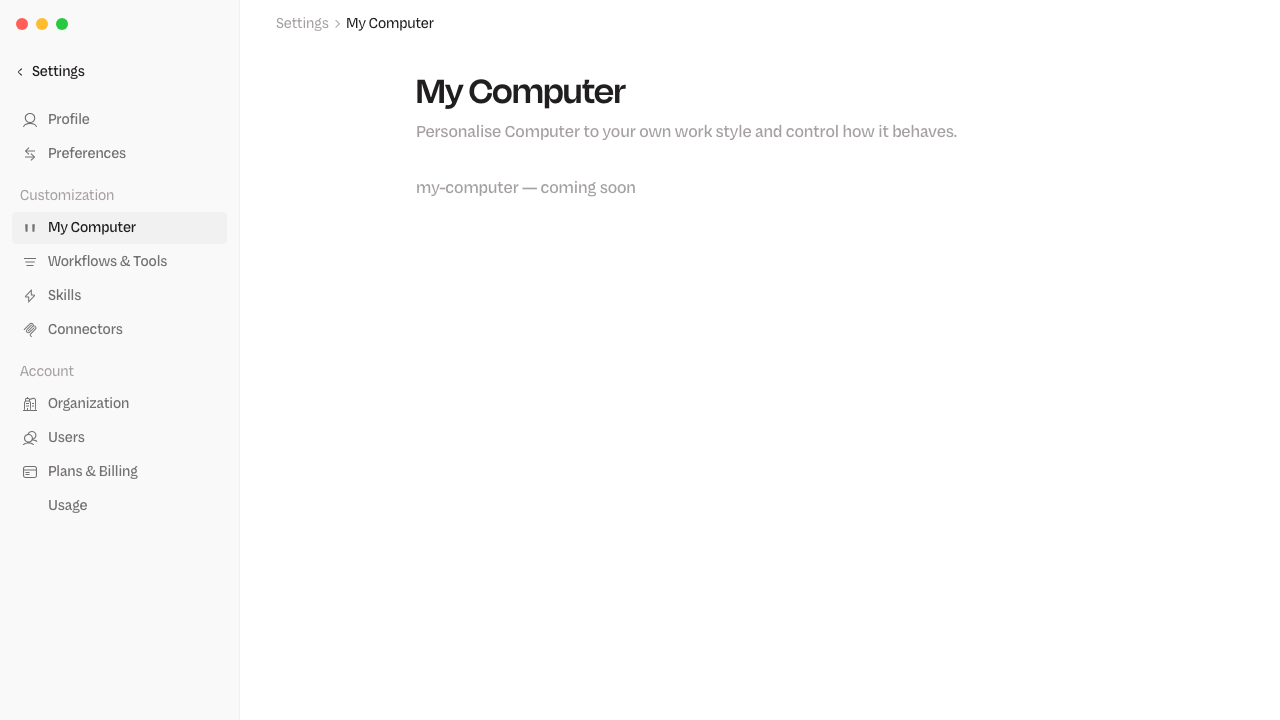
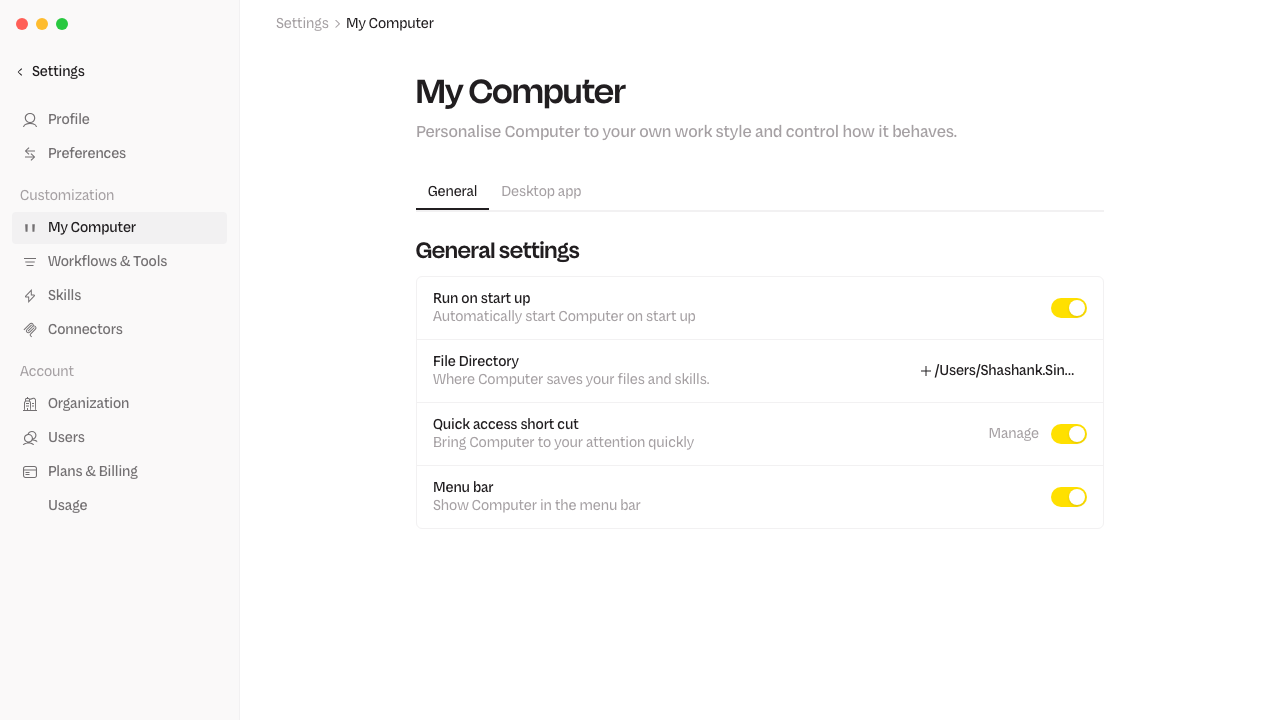
feat(studio/templates): Computer: Settings wave-1 pages (My Computer, Skills, Connectors, Users)

diff --git a/studio/prototype-kit/template-seeds/computer-settings/pages/Users.tsx b/studio/prototype-kit/template-seeds/computer-settings/pages/Users.tsx
@@ -1,0 +1,47 @@
+import * as React from "react";
+import { Button, Avatar, Tag, IconButton, ThreeDotsHorizontal, Tabs } from "arcade/components";
+
+const users = [
+  { name: "Michael Machado", email: "[email redacted]", role: "Admin" },
+  { name: "Anmol Agarwal", email: "[email redacted]", role: "Member" },
+  { name: "Tim Diacon", email: "[email redacted]", role: "Member" },
+  { name: "Shubham Gandhi", email: "[email redacted]", role: "Member" },
+  { name: "Priya Nair", email: "[email redacted]", role: "Member" },
+  { name: "Diego Alvarez", email: "[email redacted]", role: "Member" },
+];
+
+export default function Users() {
+  return (
+    <div className="flex flex-col gap-5">
+      <div className="flex items-center justify-between">
+        <Tabs.Root defaultValue="users">
+          <Tabs.List>
+            <Tabs.Trigger value="users">Users 234</Tabs.Trigger>
+            <Tabs.Trigger value="invitations">Invitations 4</Tabs.Trigger>
+          </Tabs.List>
+        </Tabs.Root>
+        <Button variant="primary" size="sm">Invite users</Button>
+      </div>
+      <div className="flex flex-col">
+        <div className="flex items-center justify-between px-2 pb-2 text-body-small" style={{ color: "var(--fg-neutral-subtle)" }}>
+          <span>Name</span><span>Role</span>
+        </div>
+        {users.map((u) => (
+          <div key={u.email} className="flex items-center justify-between border-t py-3" style={{ borderColor: "var(--stroke-neutral-subtle)" }}>
+            <span className="flex items-center gap-3">
+              <Avatar name={u.name} size="sm" />
+              <span className="flex flex-col">
+                <span className="text-system-medium" style={{ color: "var(--fg-neutral-prominent)" }}>{u.name}</span>
+                <span className="text-body-small" style={{ color: "var(--fg-neutral-subtle)" }}>{u.email}</span>
+              </span>
+            </span>
+            <span className="flex items-center gap-3">
+              <span className="text-body-small" style={{ color: "var(--fg-neutral-medium)" }}>{u.role}</span>
+              <IconButton variant="tertiary" size="sm" aria-label="More"><ThreeDotsHorizontal size={16} /></IconButton>
+            </span>
+          </div>
+        ))}
+      </div>
+    </div>
+  );
+}

diff --git a/studio/prototype-kit/template-seeds/computer-settings/pages/Skills.tsx b/studio/prototype-kit/template-seeds/computer-settings/pages/Skills.tsx
@@ -1,0 +1,41 @@
+import * as React from "react";
+import { SkillCard } from "arcade-prototypes";
+import { Tabs, Tag, Link, LightingBolt, HumanSilhouette, ChevronRightSmall } from "arcade/components";
+
+const skills = [
+  { title: "Prospect Research", description: "Pulls a company brief before any outreach so you walk in knowing more than they expect." },
+  { title: "Cold Email Writer", description: "Turns a name and a URL into a sharp, personalised first message worth replying to." },
+  { title: "Meeting Recap", description: "Summarises a call into decisions, owners, and next steps the moment it ends." },
+];
+
+export default function Skills() {
+  return (
+    <div className="flex flex-col gap-6">
+      <div style={{ borderBottom: "1px solid var(--stroke-neutral-subtle)" }}>
+        <Tabs.Root defaultValue="discover">
+          <Tabs.List>
+            <Tabs.Trigger value="discover">Discover</Tabs.Trigger>
+            <Tabs.Trigger value="mine">My skills</Tabs.Trigger>
+          </Tabs.List>
+        </Tabs.Root>
+      </div>
+      <div className="flex items-center gap-4 rounded-square-x2 border px-5 py-4"
+        style={{ borderColor: "var(--stroke-neutral-subtle)", background: "var(--bg-neutral-soft)" }}>
+        <HumanSilhouette size={20} color="var(--fg-neutral-subtle)" />
+        <span>Not sure what capabilities are? <Link mode="inline" href="#">Find out more</Link></span>
+        <ChevronRightSmall size={16} color="var(--fg-neutral-subtle)" />
+      </div>
+      <div className="grid grid-cols-1 gap-4 sm:grid-cols-2 lg:grid-cols-3">
+        {skills.map((s) => (
+          <SkillCard
+            key={s.title}
+            icon={<LightingBolt size={20} color="#2563eb" />}
+            title={s.title}
+            description={s.description}
+            status={<Tag intent="neutral" appearance="tinted">DevRev</Tag>}
+          />
+        ))}
+      </div>
+    </div>
+  );
+}

diff --git a/studio/prototype-kit/template-seeds/computer-settings/pages/Connectors.tsx b/studio/prototype-kit/template-seeds/computer-settings/pages/Connectors.tsx
@@ -1,0 +1,36 @@
+import * as React from "react";
+import { Button, Tag } from "arcade/components";
+import { BrandTile } from "../brandLogos";
+
+const connectors: Array<{ name: string; connected?: boolean }> = [
+  { name: "Gmail", connected: true }, { name: "Outlook Email", connected: true },
+  { name: "Salesforce" }, { name: "HubSpot" },
+  { name: "Google Calendar" }, { name: "Outlook Calendar" },
+  { name: "Gong" }, { name: "Zoom", connected: true },
+  { name: "Google Drive", connected: true }, { name: "Confluence Cloud" },
+  { name: "Notion", connected: true }, { name: "OneDrive", connected: true },
+  { name: "Slack", connected: true }, { name: "Microsoft Teams", connected: true },
+  { name: "SharePoint", connected: true }, { name: "Jira" },
+];
+
+export default function Connectors() {
+  return (
+    <div className="flex flex-col gap-4">
+      <div className="flex justify-end">
+        <Button variant="primary" size="sm">Add custom connector</Button>
+      </div>
+      <div className="grid grid-cols-1 gap-3 sm:grid-cols-2">
+        {connectors.map((c) => (
+          <div key={c.name} className="flex items-center justify-between rounded-square-x2 border px-4 py-3"
+            style={{ borderColor: "var(--stroke-neutral-subtle)" }}>
+            <span className="flex items-center gap-3">
+              <BrandTile name={c.name} />
+              <span className="text-system-medium" style={{ color: "var(--fg-neutral-prominent)" }}>{c.name}</span>
+            </span>
+            {c.connected && <Tag intent="success" appearance="tinted">Connected</Tag>}
+          </div>
+        ))}
+      </div>
+    </div>
+  );
+}

diff --git a/studio/prototype-kit/template-seeds/computer-settings/brandLogos.tsx b/studio/prototype-kit/template-seeds/computer-settings/brandLogos.tsx
@@ -1,0 +1,33 @@
+import * as React from "react";
+
+// Minimal inline-SVG brand marks for the Connectors page. Simplified, single-
+// path-ish glyphs tinted to each brand — recognizable without shipping real logo assets.
+export const BRAND_LOGOS: Record<string, React.ReactNode> = {
+  Gmail: <svg width="20" height="20" viewBox="0 0 24 24"><path fill="#EA4335" d="M2 5l10 7L22 5v14H2z" opacity="0.9"/></svg>,
+  "Outlook Email": <svg width="20" height="20" viewBox="0 0 24 24"><rect x="2" y="4" width="20" height="16" rx="2" fill="#0078D4"/></svg>,
+  Salesforce: <svg width="20" height="20" viewBox="0 0 24 24"><circle cx="12" cy="12" r="9" fill="#00A1E0"/></svg>,
+  HubSpot: <svg width="20" height="20" viewBox="0 0 24 24"><circle cx="12" cy="12" r="9" fill="#FF7A59"/></svg>,
+  "Google Calendar": <svg width="20" height="20" viewBox="0 0 24 24"><rect x="3" y="4" width="18" height="17" rx="2" fill="#4285F4"/></svg>,
+  "Outlook Calendar": <svg width="20" height="20" viewBox="0 0 24 24"><rect x="3" y="4" width="18" height="17" rx="2" fill="#0078D4"/></svg>,
+  Gong: <svg width="20" height="20" viewBox="0 0 24 24"><circle cx="12" cy="12" r="9" fill="#8A3FFC"/></svg>,
+  Zoom: <svg width="20" height="20" viewBox="0 0 24 24"><rect x="2" y="5" width="20" height="14" rx="4" fill="#2D8CFF"/></svg>,
+  "Google Drive": <svg width="20" height="20" viewBox="0 0 24 24"><path fill="#00AC47" d="M8 3h8l6 11H14z"/><path fill="#FFBA00" d="M2 14L8 3l6 11z"/></svg>,
+  "Confluence Cloud": <svg width="20" height="20" viewBox="0 0 24 24"><rect x="3" y="3" width="18" height="18" rx="3" fill="#1868DB"/></svg>,
+  Notion: <svg width="20" height="20" viewBox="0 0 24 24"><rect x="4" y="3" width="16" height="18" rx="2" fill="#111"/></svg>,
+  OneDrive: <svg width="20" height="20" viewBox="0 0 24 24"><ellipse cx="12" cy="14" rx="9" ry="5" fill="#0364B8"/></svg>,
+  Slack: <svg width="20" height="20" viewBox="0 0 24 24"><rect x="5" y="5" width="14" height="14" rx="4" fill="#4A154B"/></svg>,
+  "Microsoft Teams": <svg width="20" height="20" viewBox="0 0 24 24"><rect x="3" y="4" width="18" height="16" rx="3" fill="#6264A7"/></svg>,
+  SharePoint: <svg width="20" height="20" viewBox="0 0 24 24"><circle cx="12" cy="12" r="9" fill="#038387"/></svg>,
+  Jira: <svg width="20" height="20" viewBox="0 0 24 24"><path fill="#2684FF" d="M12 2l9 9-9 9-9-9z"/></svg>,
+};
+
+export function BrandTile({ name }: { name: string }) {
+  const logo = BRAND_LOGOS[name];
+  if (logo) return <>{logo}</>;
+  return (
+    <span className="flex h-5 w-5 items-center justify-center rounded-square text-body-small"
+      style={{ background: "var(--bg-neutral-soft)", color: "var(--fg-neutral-medium)" }}>
+      {name.charAt(0)}
+    </span>
+  );
+}

diff --git a/studio/prototype-kit/template-seeds/computer-settings/pages/MyComputer.tsx b/studio/prototype-kit/template-seeds/computer-settings/pages/MyComputer.tsx
@@ -1,0 +1,26 @@
+import * as React from "react";
+import { SettingsCard, SettingsRow } from "arcade-prototypes";
+import { Tabs, Switch, Button, PlusSmall } from "arcade/components";
+
+export default function MyComputer() {
+  return (
+    <div className="flex flex-col gap-6">
+      <div style={{ borderBottom: "1px solid var(--stroke-neutral-subtle)" }}>
+        <Tabs.Root defaultValue="general">
+          <Tabs.List>
+            <Tabs.Trigger value="general">General</Tabs.Trigger>
+            <Tabs.Trigger value="desktop">Desktop app</Tabs.Trigger>
+          </Tabs.List>
+        </Tabs.Root>
+      </div>
+      <SettingsCard title="General settings">
+        <SettingsRow label="Run on start up" description="Automatically start Computer on start up" control={<Switch defaultChecked />} />
+        <SettingsRow label="File Directory" description="Where Computer saves your files and skills."
+          action={<Button variant="tertiary" size="sm" iconLeft={<PlusSmall size={16} />}>/Users/Shashank.Sin…</Button>} />
+        <SettingsRow label="Quick access short cut" description="Bring Computer to your attention quickly"
+          action={<span className="text-body-small" style={{ color: "var(--fg-neutral-subtle)" }}>Manage</span>} control={<Switch defaultChecked />} />
+        <SettingsRow label="Menu bar" description="Show Computer in the menu bar" control={<Switch defaultChecked />} />
+      </SettingsCard>
+    </div>
+  );
+}

diff --git a/studio/__tests__/components/home/computer-settings-shell.test.tsx b/studio/__tests__/components/home/computer-settings-shell.test.tsx
@@ -14,7 +14,27 @@ vi.mock("arcade/components", () => ({
   CreditCard: () => null,
   Dashboard: () => null,
   ChevronLeftSmall: () => null,
+  ChevronRightSmall: () => null,
+  ThreeDotsHorizontal: () => null,
+  PlusSmall: () => null,
   Sidebar: () => null,
+  Tabs: {
+    Root: ({ children }: any) => <div>{children}</div>,
+    List: ({ children }: any) => <div>{children}</div>,
+    Trigger: ({ children }: any) => <button>{children}</button>,
+  },
+  Switch: () => <input type="checkbox" />,
+  Button: ({ children }: any) => <button>{children}</button>,
+  Tag: ({ children }: any) => <span>{children}</span>,
+  Link: ({ children }: any) => <a>{children}</a>,
+  Avatar: ({ name }: any) => <div>{name}</div>,
+  IconButton: ({ children }: any) => <button>{children}</button>,
+}));
+
+vi.mock("arcade-prototypes", () => ({
+  SettingsCard: ({ title, children }: any) => <div>{title}{children}</div>,
+  SettingsRow: ({ label, description }: any) => <div>{label}{description}</div>,
+  SkillCard: ({ title }: any) => <div>{title}</div>,
 }));
 
 import ComputerSettingsTemplate from "../../../prototype-kit/template-seeds/computer-settings/index";
@@ -31,5 +51,10 @@ describe("Computer: Settings shell", () => {
     expect(screen.getAllByText("Skills").length).toBeGreaterThan(0);
     // breadcrumb/title now shows Skills subtitle
     expect(screen.getByText(/Discover and add capabilities/i)).toBeTruthy();
+  });
+
+  it("renders the My Computer settings body by default", () => {
+    render(<ComputerSettingsTemplate />);
+    expect(screen.getByText(/General settings/i)).toBeTruthy();
   });
 });

diff --git a/studio/prototype-kit/template-seeds/computer-settings/index.tsx b/studio/prototype-kit/template-seeds/computer-settings/index.tsx
@@ -1,6 +1,10 @@
 import * as React from "react";
 import { ComputerSettingsSidebar } from "./ComputerSettingsSidebar";
 import { PAGE_TITLES, type PageId } from "./types.tsx";
+import MyComputer from "./pages/MyComputer";
+import Skills from "./pages/Skills";
+import Connectors from "./pages/Connectors";
+import Users from "./pages/Users";
 
 function PagePlaceholder({ id }: { id: PageId }) {
   return <div className="text-body-medium" style={{ color: "var(--fg-neutral-subtle)" }}>{id} — coming soon</div>;
@@ -8,6 +12,10 @@ function PagePlaceholder({ id }: { id: PageId }) {
 
 function renderPage(id: PageId): React.ReactNode {
   switch (id) {
+    case "my-computer": return <MyComputer />;
+    case "skills": return <Skills />;
+    case "connectors": return <Connectors />;
+    case "users": return <Users />;
     default:
       return <PagePlaceholder id={id} />;
   }